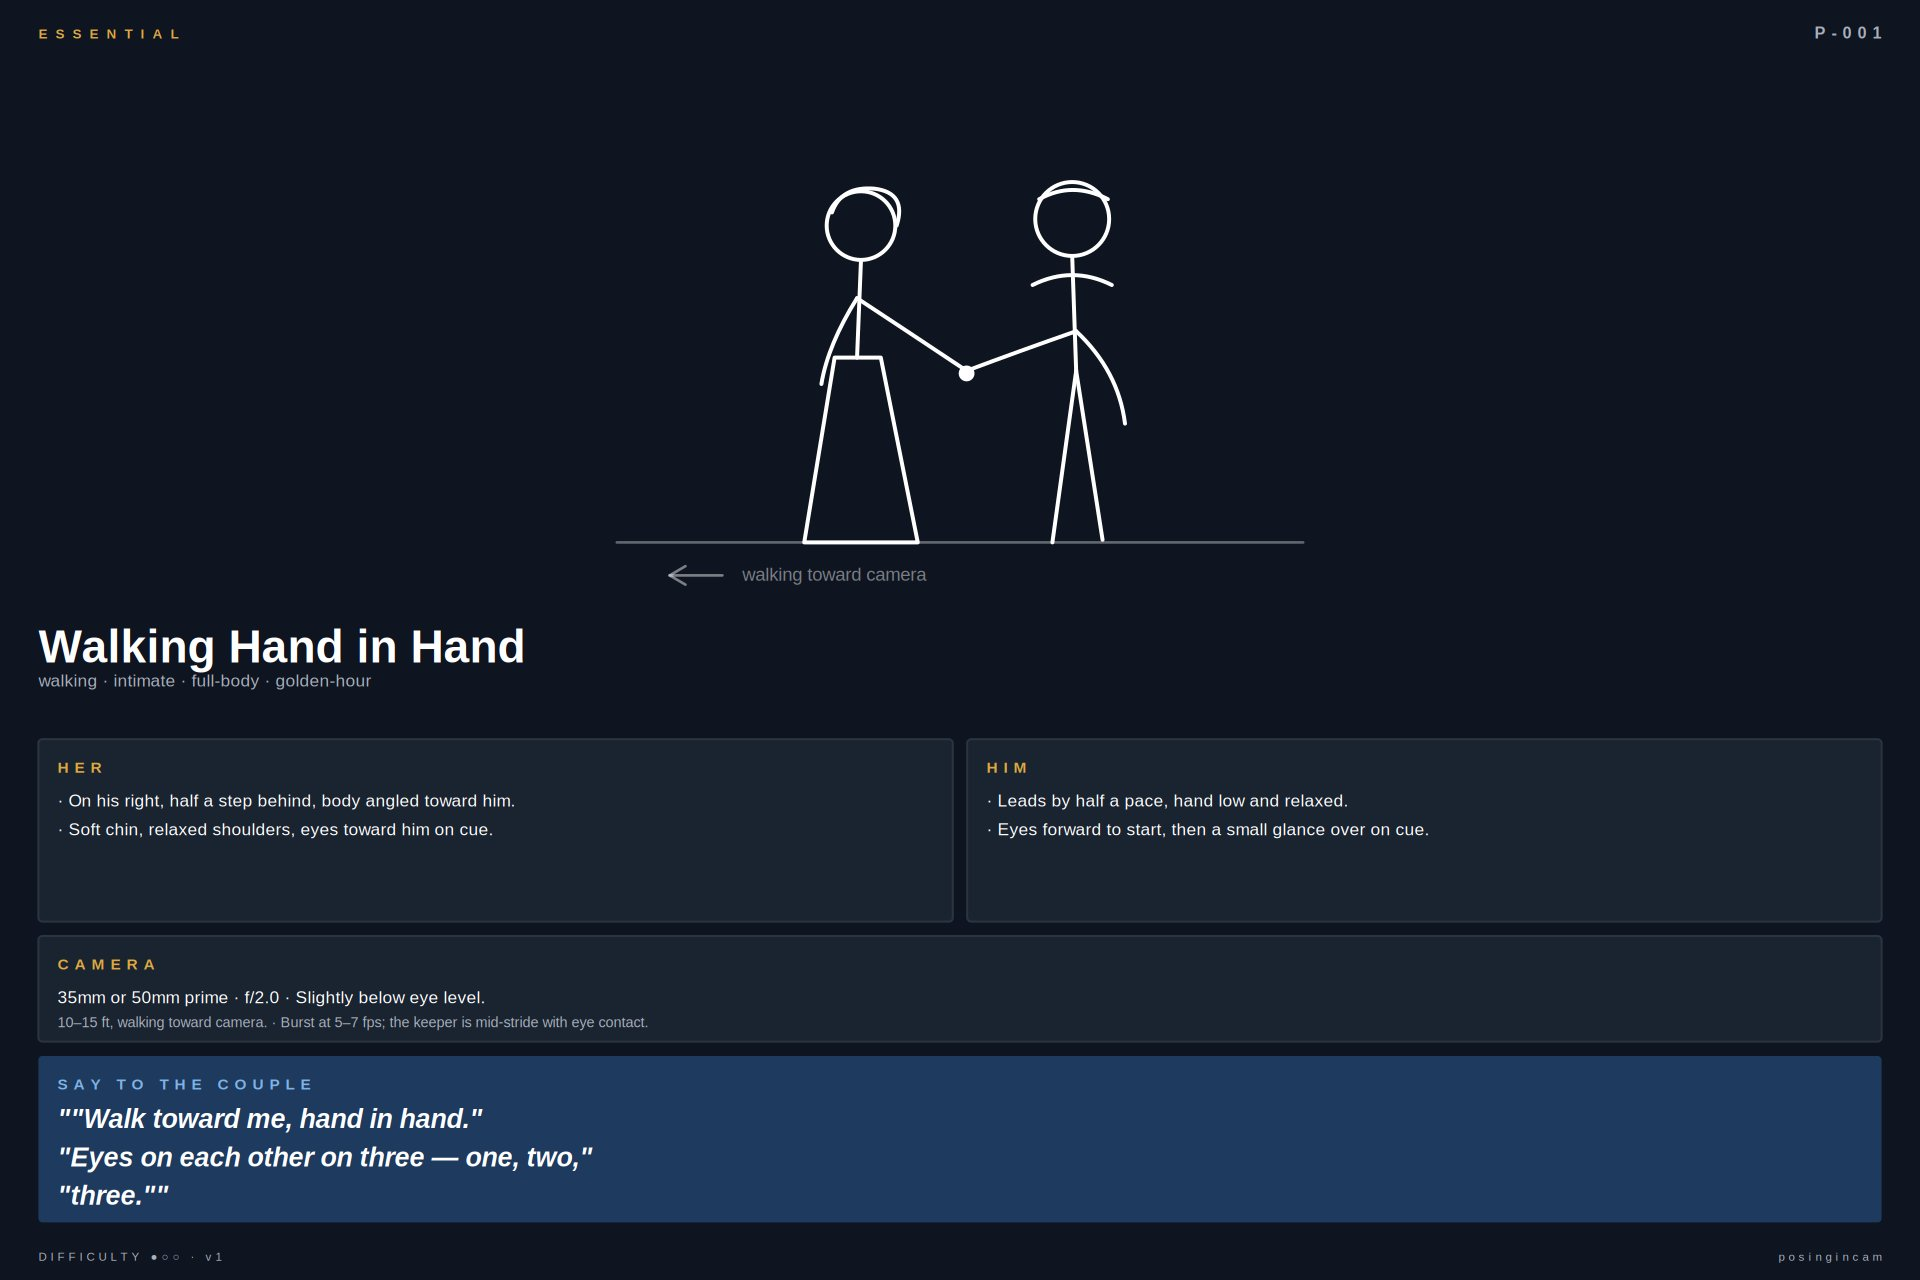
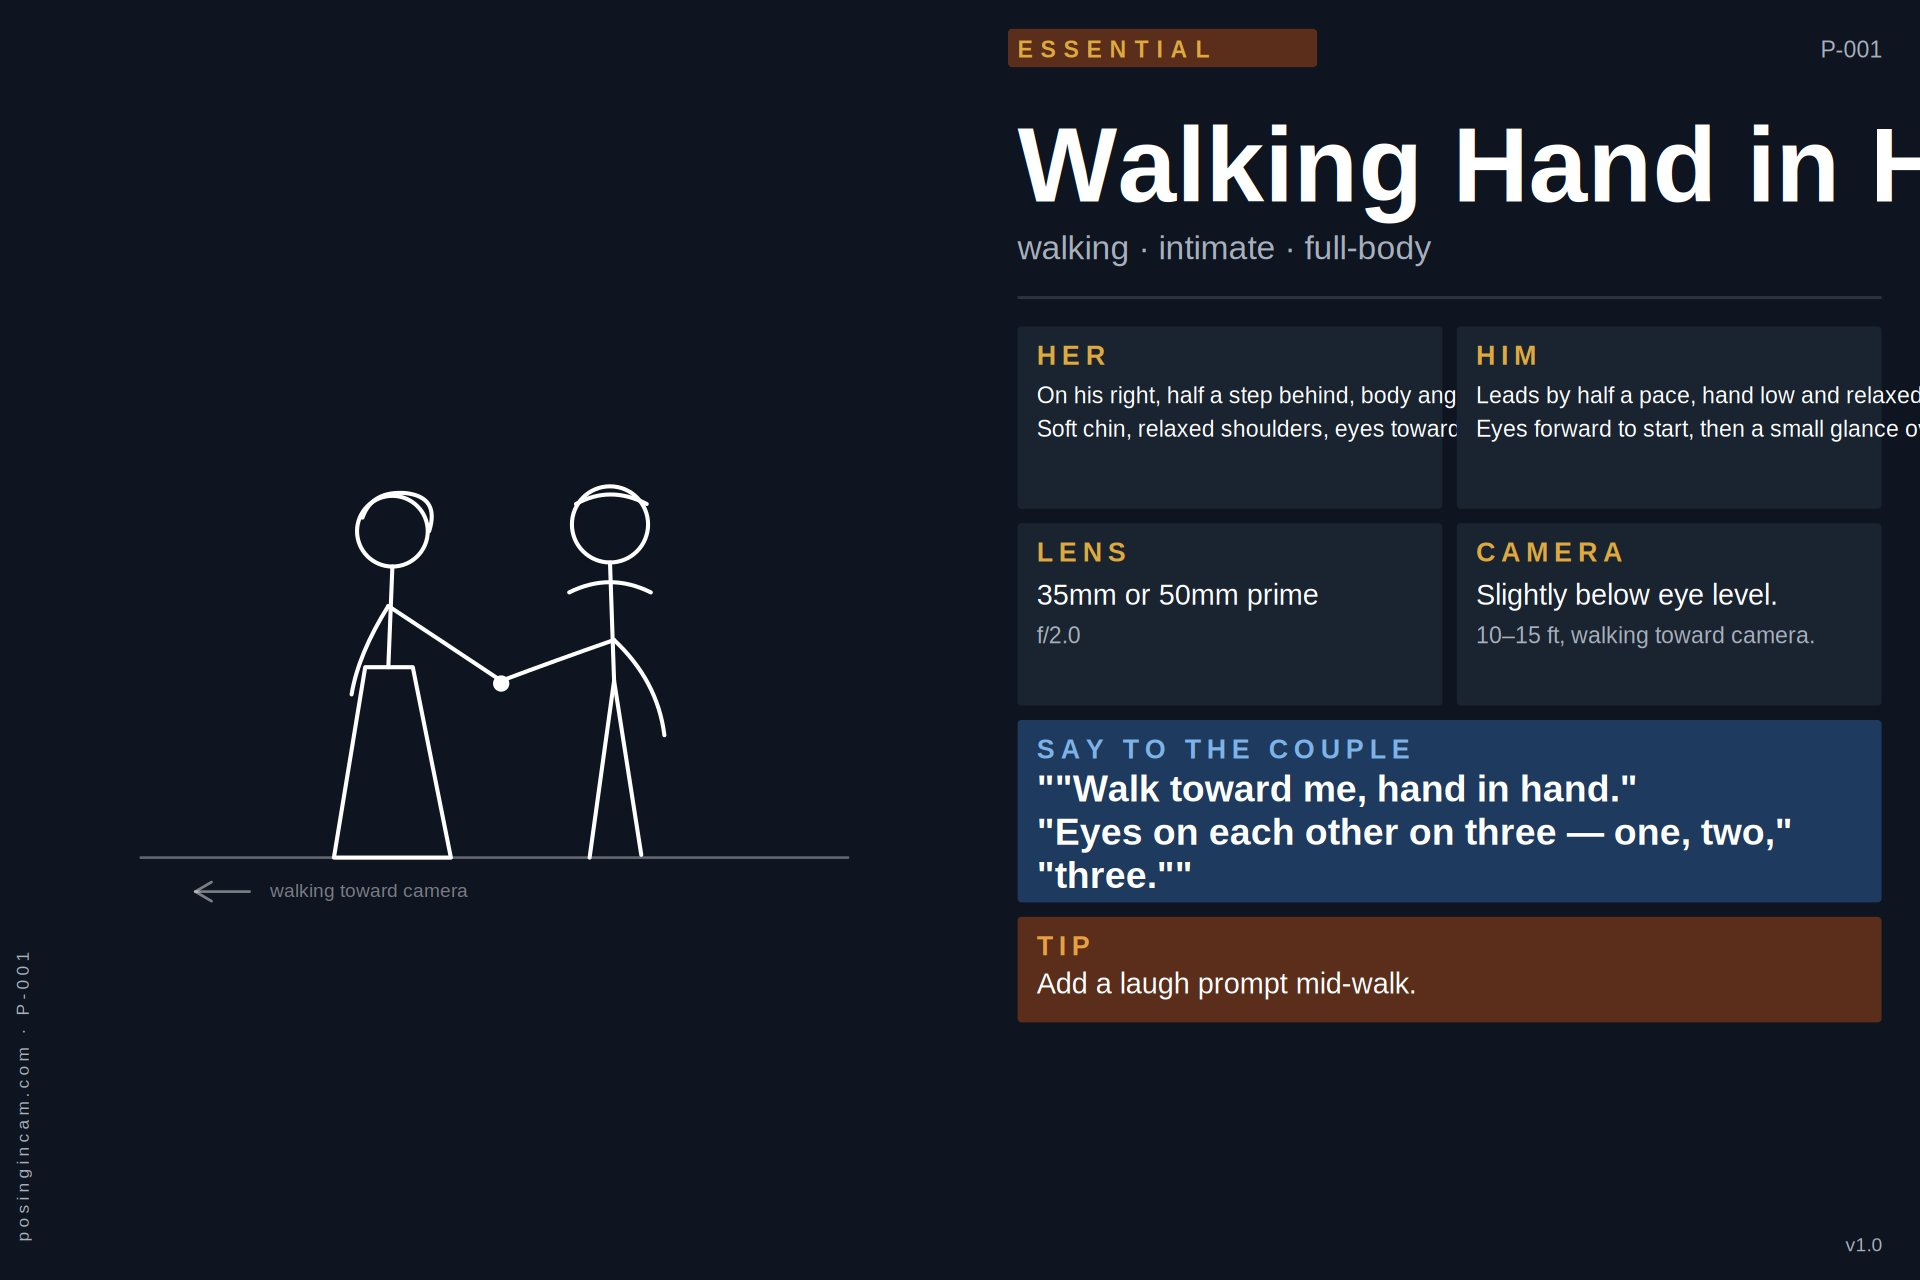
Side-by-side card layout matching Cue's visual hierarchy
Major template redesign. Was: top-bottom split (illustration on top,
info crammed below). Now: 50/50 horizontal split.

Left half:
- Vertical 'posingincam.com · P-XXX' watermark on far-left edge
  (rotated 270deg, muted gray, like Cue's shootwithcue.com)
- Centered line illustration filling most of the height

Right half:
- Pack badge top-left in a small dark-orange tag (e.g. 'ESSENTIAL')
- Pose ID top-right
- Hero title at ~220px reference (~105px rendered) — bold sans-serif,
  the size your eye finds first, like Cue's
- Subtitle: top 3 tags joined ('walking · intimate · full-body')
- Divider line
- 2x2 panel grid:
  - Row 1: HER | HIM with first 2 positioning bullets each
  - Row 2: LENS | CAMERA (lens+aperture | angle+distance)
- Full-width blue SAY-TO-THE-COUPLE hero panel — italic quote,
  same blue family as Cue's
- Optional orange TIP panel below if pose has variations
- Version stamp bottom-right

Truncates at 2 bullets per HER/HIM panel and 3 cue lines so
content fits without overflow on smaller cameras. Long-tail bullets
should be edited concisely in the YAML — Cue's style is punchy.

Visual content test rewritten with the new zones. 51 tests pass.
File size 144 KB (was 109 KB v2, was 75 KB v1) — comparable to Cue's
~150-200 KB range.

diff --git a/tests/test_visual_content.py b/tests/test_visual_content.py
@@ -49,10 +49,9 @@ def test_card_jpeg_has_visible_content() -> None:
 
 
 def test_card_has_content_in_each_zone() -> None:
-    """Title/illustration/right column/cue zones must each have content.
-
-    Catches the failure mode where one section silently disappears
-    (e.g. a transform is wrong, or one section's CSS class breaks).
+    """The four primary zones of the side-by-side layout must each render
+    visible content. Catches regressions where one panel silently disappears
+    (transform wrong, CSS class fails, content overflows off-canvas, ...).
     """
     profile = get_profile("sony-a7iv")
     pose = next(p for p in load_poses(REPO_ROOT / "poses") if p.id == "P-001")
@@ -61,10 +60,11 @@ def test_card_has_content_in_each_zone() -> None:
     w, h = img.size
 
     zones = {
-        "illustration (top half)":       (0,                  0,             w,             int(h * 0.45)),
-        "title strip":                   (0,                  int(h * 0.45), w,             int(h * 0.58)),
-        "her/him panels row":            (0,                  int(h * 0.58), w,             int(h * 0.75)),
-        "say-to-the-couple hero panel":  (0,                  int(h * 0.78), w,             int(h * 0.96)),
+        "left illustration":         (0,      0,             w // 2, h),
+        "right title block":         (w // 2, int(h * 0.10), w,      int(h * 0.30)),
+        "right HER/HIM row":         (w // 2, int(h * 0.32), w,      int(h * 0.50)),
+        "right LENS/CAMERA row":     (w // 2, int(h * 0.50), w,      int(h * 0.65)),
+        "right SAY hero panel":      (w // 2, int(h * 0.65), w,      int(h * 0.85)),
     }
 
     for label, (x0, y0, x1, y1) in zones.items():
